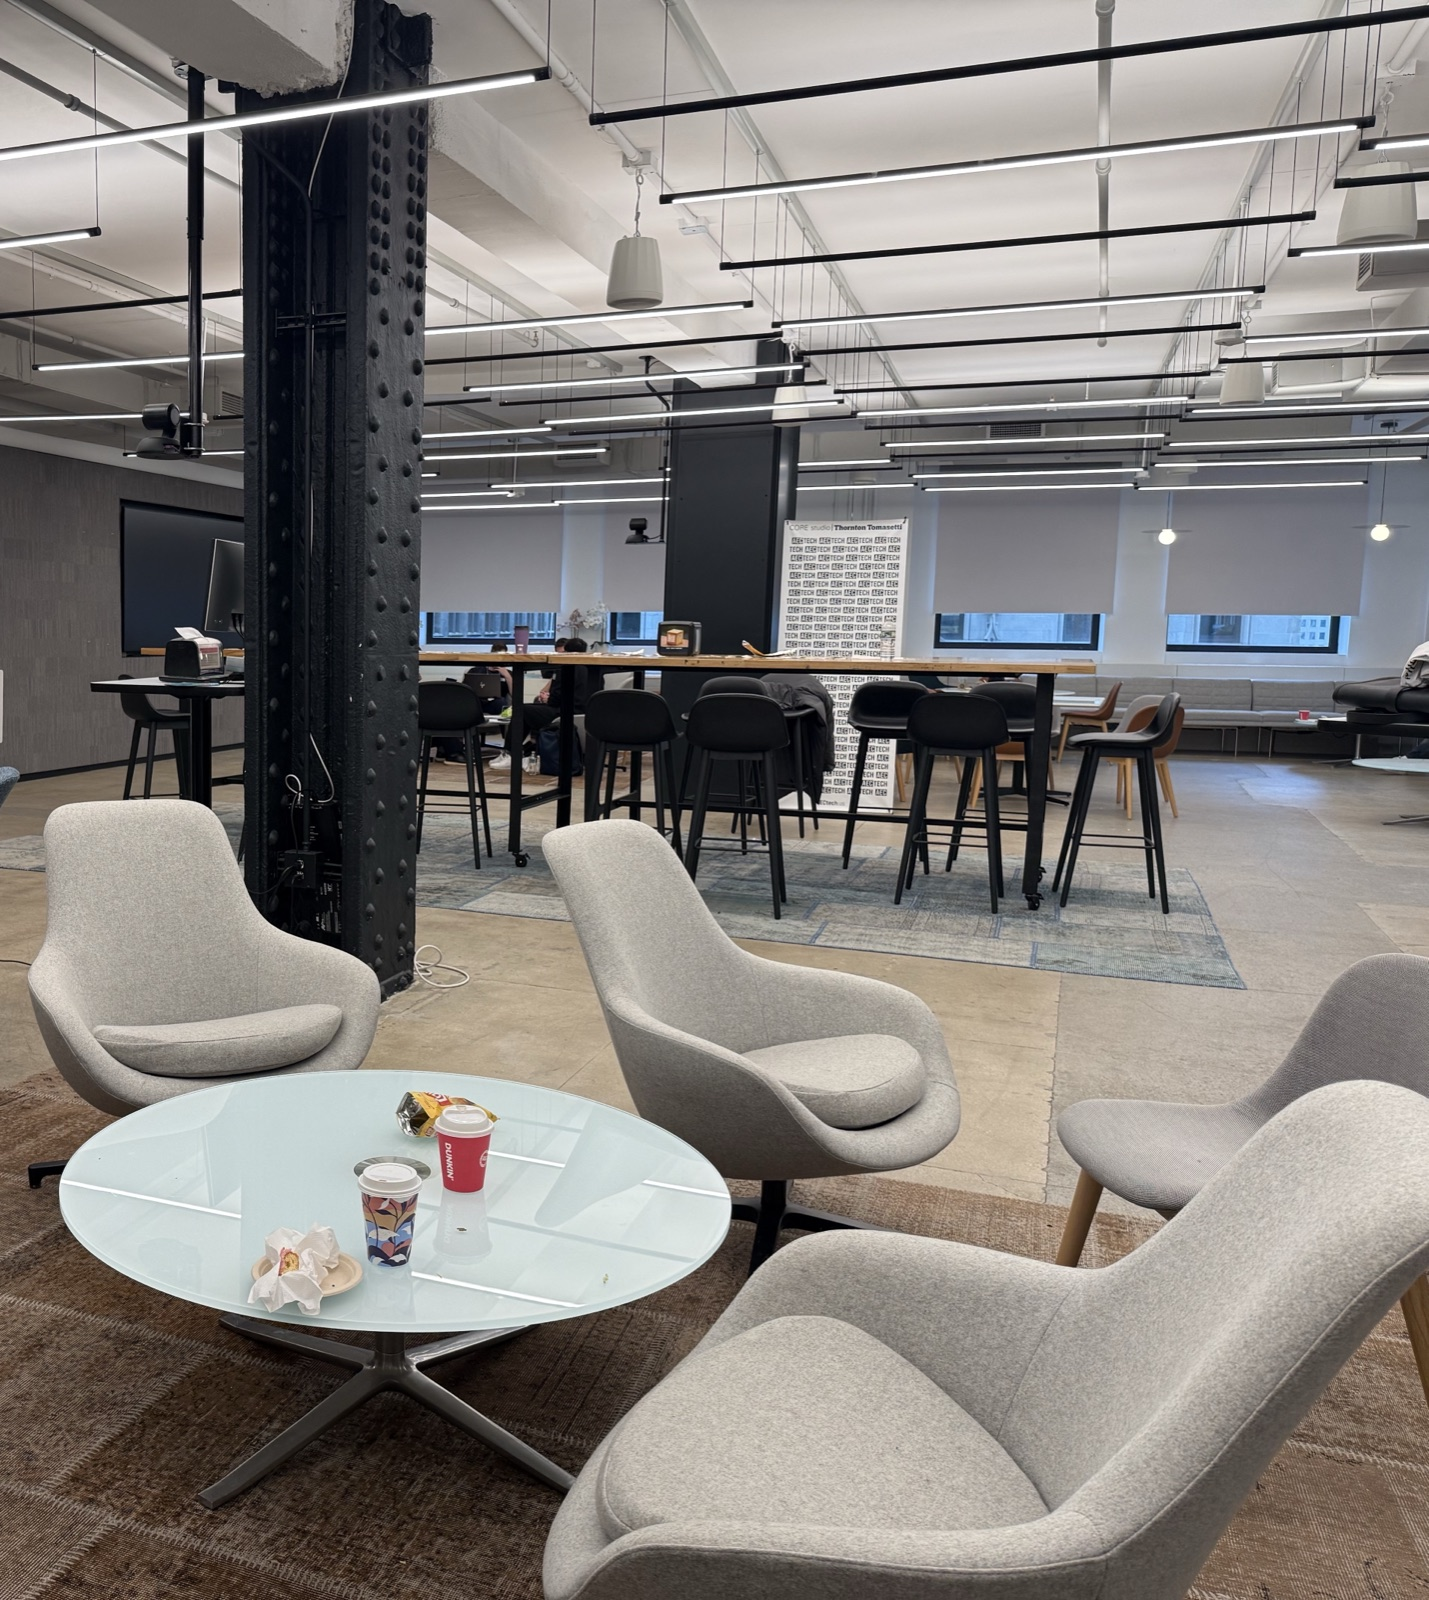
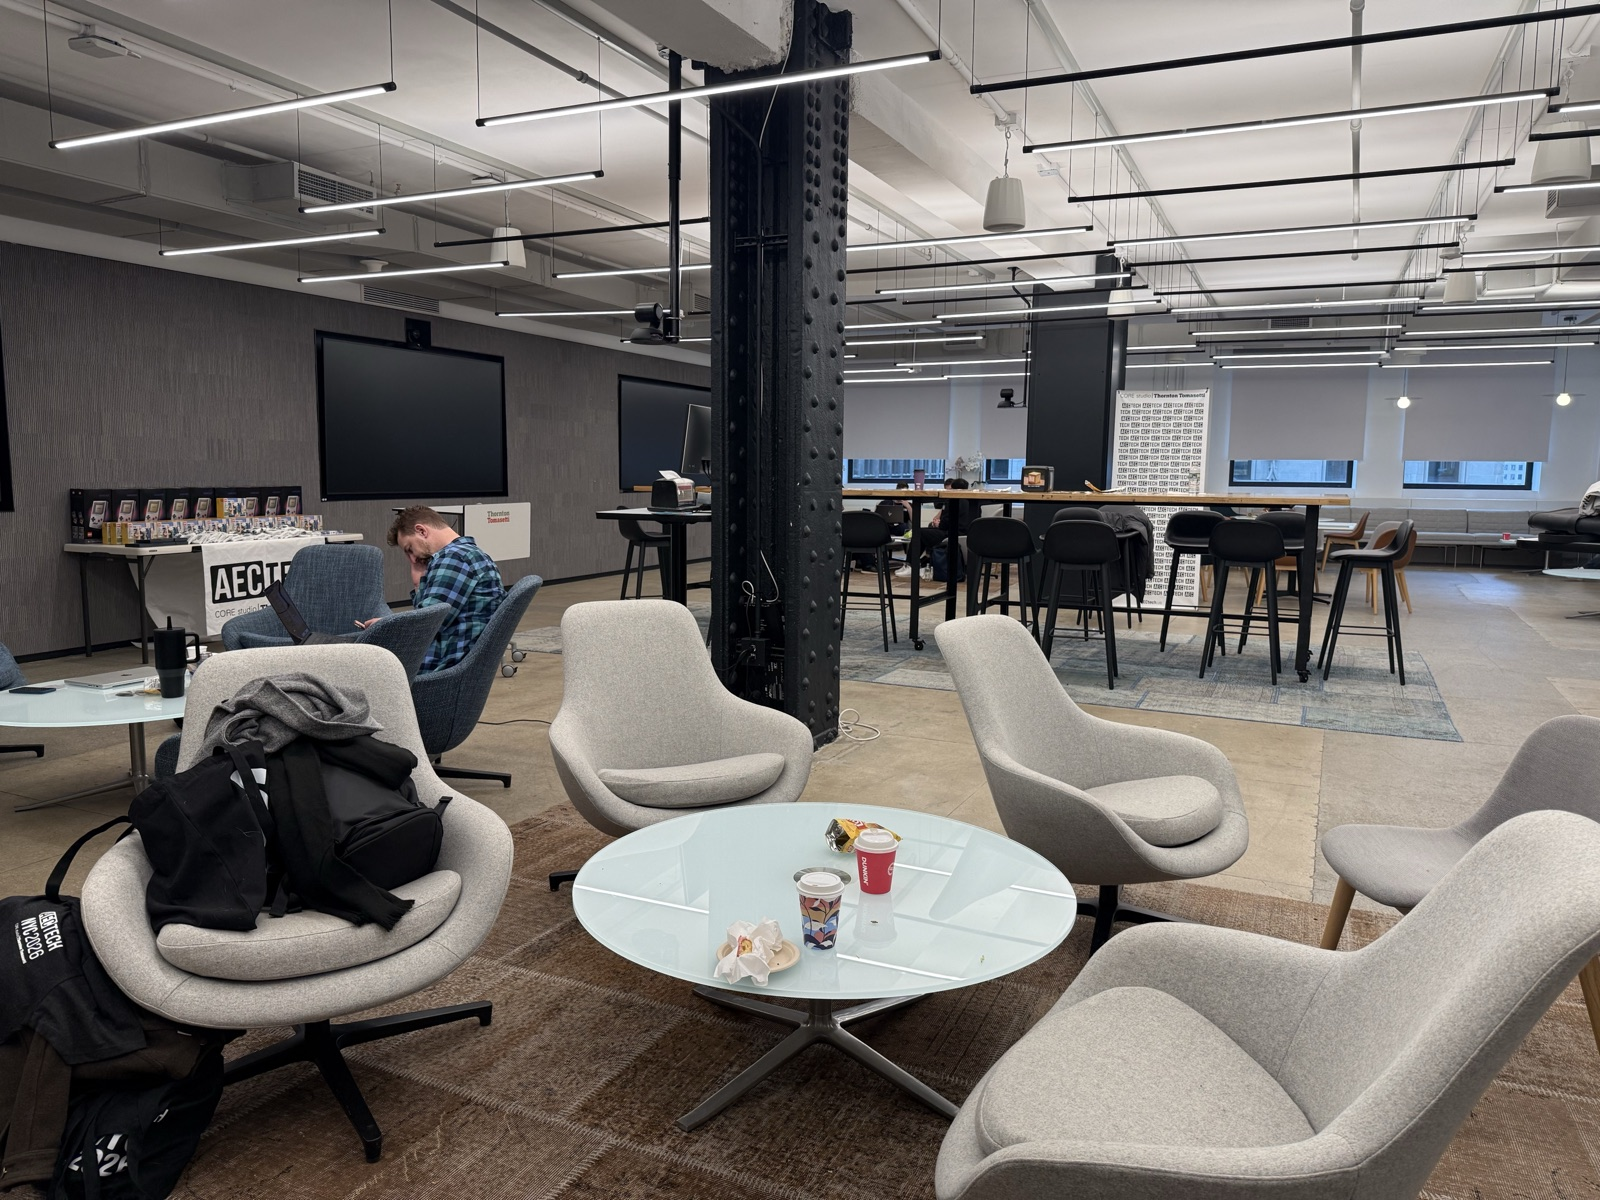
Lounge example: full uncropped photo (IMG_7688), furniture boxes remapped, new demo render

diff --git a/app/app.js b/app/app.js
@@ -372,7 +372,7 @@ const sceneSig = (items = S.scene) => JSON.stringify([photoKey(), S.space.wallIn
   S.space.depthIn, S.space.corridor, S.space.clearanceIn, S.space.obstacles, B.revision,
   items.map(it => [it.pid, it.vid, it.qty, it.own, it.pos])]);
 const currentRender = () => S.scene && S.renders[sceneSig()];
-const photoKey = () => S.space.photo === "demo" ? "demo-" + S.space.ex : String(S.space.data.length);
+const photoKey = () => S.space.photo === "demo" ? "demo2-" + S.space.ex : String(S.space.data.length);
 // the latest render for this photo; kept on screen after edits until the user updates it
 const lastRender = () => S.last && S.last.photoKey === photoKey() ? S.last : null;
 
